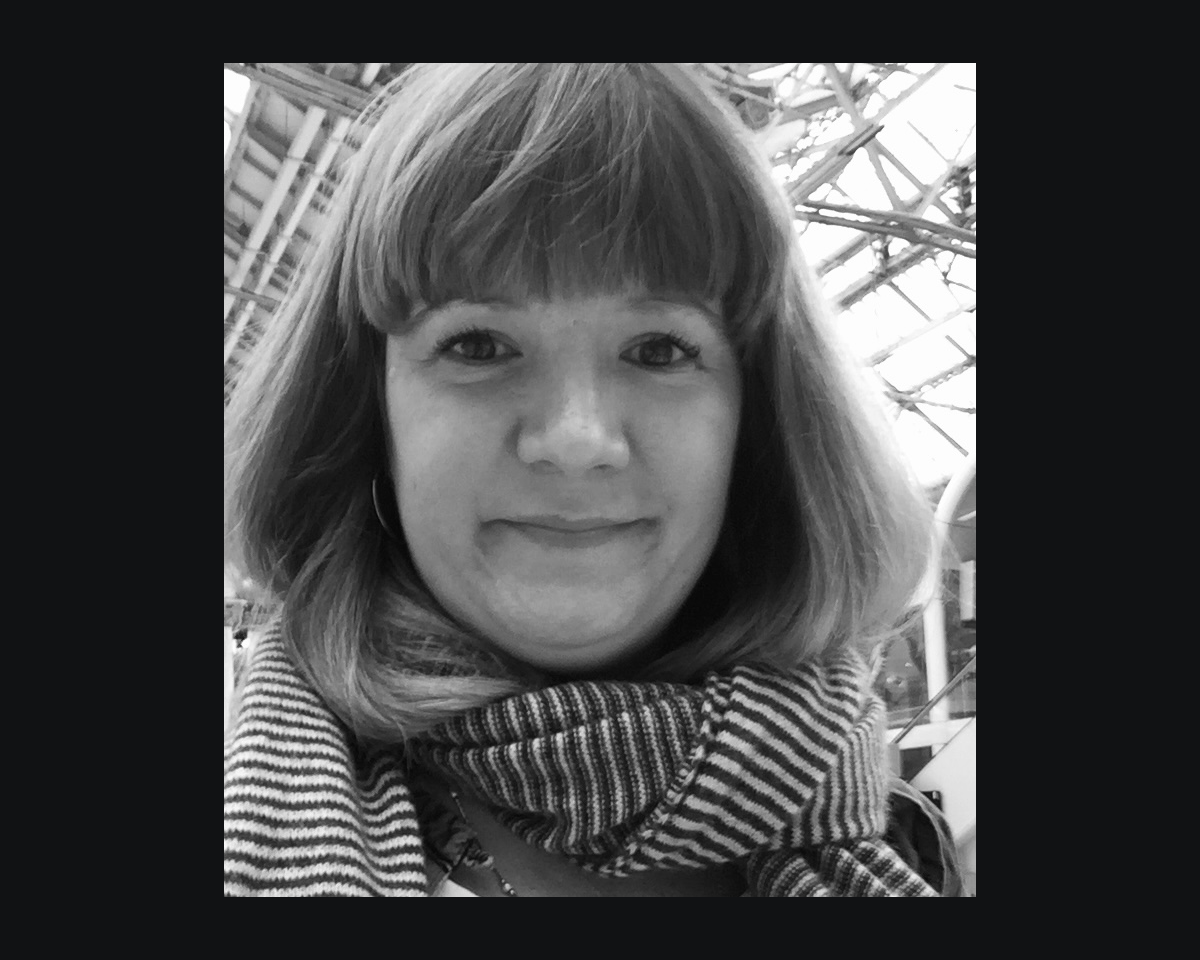
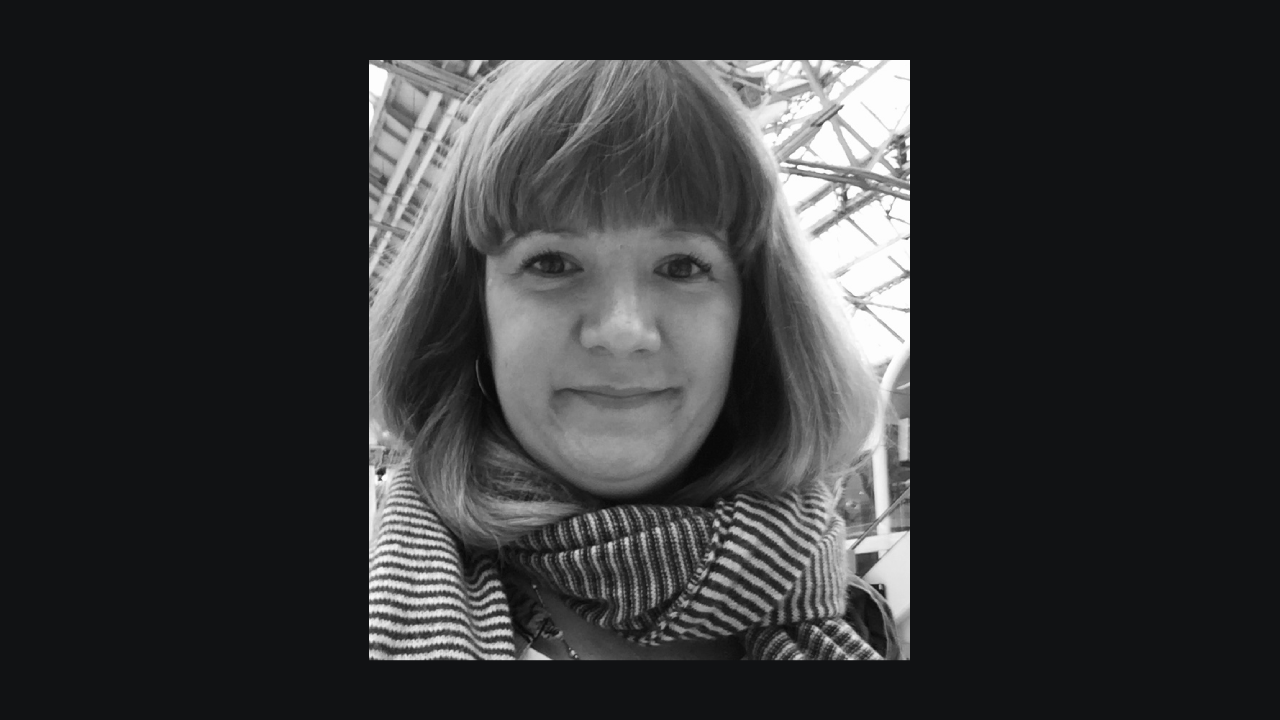
resize images to suit and add additional content - About Us

diff --git a/src/routes/about-us/index.svelte b/src/routes/about-us/index.svelte
@@ -3,9 +3,11 @@
     import { onMount } from 'svelte';
     import Icon from '@iconify/svelte';
     import { Row, Col } from 'svelte-materialify';
-    import image from './fake-portrait.jpeg'
+    import image from './portrait-aaron.png'
     import image_wade from './portrait-wade.png';
-    import image_maya from './portrait-maya.png' 
+    import image_maya from './portrait-maya.png';
+    import subject from './subject.png' 
+ 
 
     let mobile = false;
 
@@ -48,8 +50,7 @@
             <div class="container">
                 <div class="content">
                     <h2><b>Aaron</b></h2>
-                    <p><b>Background:</b> Software engineer for nearly 20 years, worked the better part of 15 years in the financial services industry in Australia (banking, insurance, superannuation). Active in the blockchain space since 2013 and advocate for economic self-determination.</p>
-                    <p><b>Current Work:</b> Founder and operator of VladiatorLabs.io, a protocol-aligned infrastructure company currently in the process of incorporating in Switzerland and expanding to other proof-of-stake networks, especially in the Cosmos ecosystem. Vladiator Labs is a founding project in the Staking Defense League, an infrastructure special interests group aimed at promoting decentralization in the staking space. Additionally has worked briefly as a contractor within cLabs on some minor projects. Involved in the Celo ecosystem since the incentivised testnet and have been supported by the Celo Foundation as an elected validator since genesis (over two different validator groups). Freelance Solidity, blockchain, database and cloud engineer and recently has worked with RaveSpace on metaverse NFT gallery https://musee-dezentral.com.</p>
+                    <p>Founder and operator of <a href="https://vladiatorlabs.io/">VladiatorLabs.io</a>, a protocol-aligned infrastructure company validating on Celo and expanding to other proof-of-stake networks, especially in the Cosmos ecosystem. Vladiator Labs is a founding project in the Staking Defense League, an infrastructure special interests group aimed at promoting decentralization in the staking space. Freelance Solidity, blockchain, database and cloud engineer and recently has worked with <a href="https://ravespace.io/">RaveSpace</a> on metaverse NFT gallery <a href="https://musee-dezentral.com">Musee Dezentral</a>.</p>
                 </div>
             </div>
           </Col>
@@ -98,6 +99,33 @@
                         <h2><b>Wade</b></h2>
                         <p><b>Background: </b> I operate The Passive Trust, an infrastructure provider for blockchain networks. The Passive Trust runs a validator group on Celo since Genesis. The Passive Trust has distributed a large percentage of funds received from being an operator on Celo to support projects built on Celo. This includes Moola, Ubeswap, ImpactMarket, Poof Cash and Resource Network. I was initially part of the Mentor/mentee program in The Great Celo Bake Off, my motivation for becoming a steward is to help potential entrepreneurs and engineers to be able to get funding through grants and be given an opportunity like I was.</p>
                         <p><b>Current Work: </b> Operates The Passive Trust. I also contribute to multiple DAOs and open source projects.</p>
+                    </div>
+                </div>
+            </Col>
+          </Row>
+
+          <Row noGutters>
+            <Col cols={12} sm={6} md={6}>
+                <div class="container">
+                    <div class="content">
+                        {#if !mobile}
+                            <h2><b>Subject matter experts</b></h2>
+                            <p>We call on experts of particular domains or regions when needed. This is done when we need clarification on a grant that has been proposed or for outreach to get the right people connected with Prezenti and funded. If you interested to support us please reach out.</p>
+                        {:else}
+                        <img src={subject} alt="Maya's profile picture" />
+                       {/if}
+                    </div>
+                </div>
+            </Col>
+            <Col cols={12} sm={6} md={6}>
+                <div class="container">
+                    <div class="content">
+                        {#if !mobile}
+                            <img src={subject} alt="Maya's profile picture" />
+                        {:else}
+                            <h2><b>Subject matter experts</b></h2>
+                            <p>We call on experts of particular domains or regions when needed. This is done when we need clarification on a grant that has been proposed or for outreach to get the right people connected with Prezenti and funded. If you interested to support us please reach out.</p>
+                        {/if}
                     </div>
                 </div>
             </Col>
@@ -152,7 +180,7 @@
 
     a {
         text-decoration: none;
-        font-size: 5rem;
+        font-size: 1rem;
         color: var(--secondary-color)
     }
      
@@ -176,12 +204,11 @@
 
     .corner a {
         color:var(--tertiary-color);
+        font-size: 5rem;
     }
 
-    .corner img {
-        width: 3rem;
-        height: 3rem;
-    }
+    
+
 
     @media (max-width: 600px) {
 
@@ -195,10 +222,13 @@
     }
 
     @media (max-width: 400px) {
-
         a {
-            font-size: 2.4rem;
+            font-size: 0.7rem;
         }
+
+        .corner a {
+            font-size: 2.4rem;
+         }
 
     }
 

diff --git a/src/routes/apply.svelte b/src/routes/apply.svelte
@@ -1,0 +1,126 @@
+<script  lang="ts">
+	export const prerender = true;
+    import Icon from '@iconify/svelte';
+
+</script>
+
+<svelte:head>
+	<title>Apply For a Grant</title>
+	<meta name="Prezenti Apply" content="Create a grants application" />
+</svelte:head>
+
+<section>
+
+<div class="corner">
+    <a sveltekit:prefetch aria-label="Link to go back" href="/links">
+        <Icon icon="mdi:arrow-left" />
+    </a>
+</div>
+
+<h1 aria-label="Apply page" ></h1>
+
+<div class="apply">
+    <iframe tabindex="-1" aria-label="Google sheet with transaction details" role="presentation" width="100%" height="100%" title="Prezenti transactions" src="https://docs.google.com/forms/d/e/1FAIpQLSf7h-hYDZsgJ6ikmzAsGUSp438zGnDKx363ryUsZ-mWNTqwdQ/viewform?embedded=true">Loading....</iframe>
+</div>
+
+</section>
+
+<style>
+
+	.apply {
+		justify-content: center;
+		align-items: center;
+		height:80vh;
+        color: white	
+    }
+
+    img {
+        padding:5%;
+        object-fit:fill;
+        width:100%;
+    }
+
+    p {
+        padding:1% 5% 1% 5%;
+		justify-content: center;
+		align-items: center;
+        text-align: center;
+    }
+
+    .container {
+        position:relative;
+        min-height: 20vh;
+        display: flex;
+        justify-content: center;
+        align-items: center;
+
+        color: var(--mdc-theme-on-secondary, #fff);
+    }
+
+    .content {
+        display:relative;
+        justify-content: center;
+        align-items: center;
+        margin: auto;
+    }
+
+    .content p {
+        color:#fff;
+        font-family: 'Proza Libre', sans-serif;
+        font-size: 0.9rem;
+    }
+
+    a {
+        text-decoration: none;
+        font-size: 5rem;
+        color: var(--secondary-color)
+    }
+     
+    h2 {
+        text-align: center;
+        font-size: 2rem;
+        padding-top: 10%
+
+    }
+
+    a:hover {
+        color:black;
+        opacity: 0.5;
+    }
+
+    .corner {
+        padding:5%;
+		width: 1rem;
+		height: 1rem;
+        margin-bottom:5%;
+	}
+
+    .corner a {
+        color:var(--tertiary-color);
+    }
+    .corner img {
+
+    width: 3rem;
+    height: 3rem;
+    }
+
+    @media (max-width: 600px) {
+        a {
+            font-size: 4rem;
+        }
+        .corner {
+
+            margin-bottom:10%;
+        }
+    }
+
+    @media (max-width: 400px) {
+        a {
+            font-size: 2.4rem;
+        }
+    }
+
+    
+
+	
+</style>

diff --git a/src/routes/links.svelte b/src/routes/links.svelte
@@ -21,7 +21,7 @@
 
 <div class="links">
     <a sveltekit:prefetch tabindex="0" aria-label="Link to information section" href="/info">Info.</a>
-	<a sveltekit:prefetch tabindex="0" aria-label="Link to How-to-apply for a grant" href="/">Apply.</a>
+	<a sveltekit:prefetch tabindex="0" aria-label="Link to How-to-apply for a grant" href="/apply">Apply.</a>
     <a sveltekit:prefetch tabindex="0" aria-label="Link to grant applications" target="_blank" href="https://questbook.app/profile/?daoId=0x1&chainId=42220">Grants.</a>
     <a sveltekit:prefetch tabindex="0" aria-label="Link to past Prezenti transactions" href="/tx">Transactions.</a>
     <a sveltekit:prefetch tabindex="0" aria-label="Link to about us section" href="/about-us">Who are we.</a>
